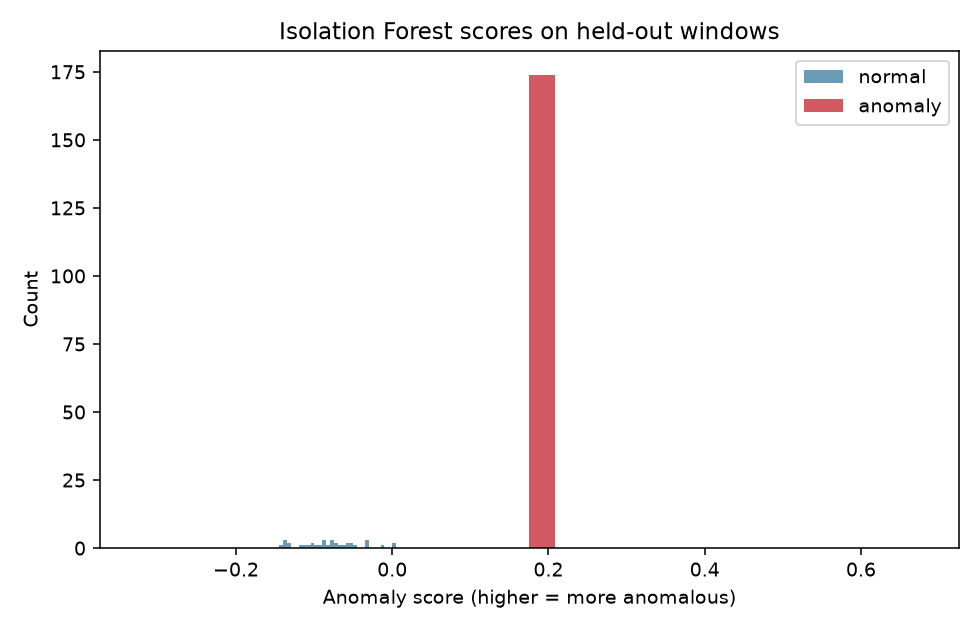
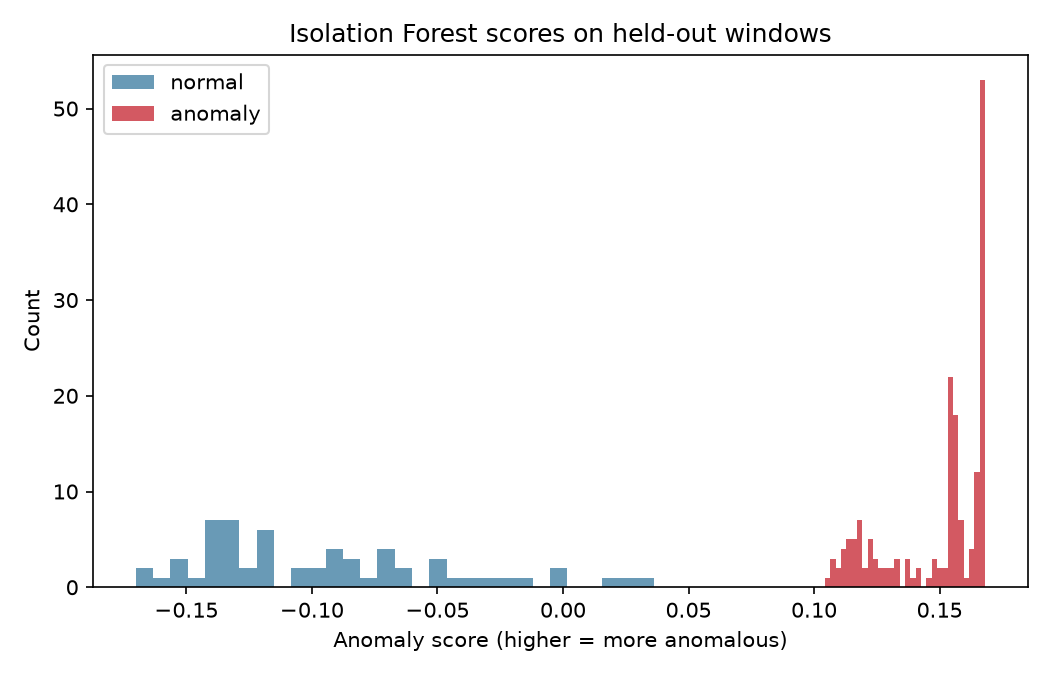
Prepare a clean academic repository for CWRU bearing anomaly detection.
Remove outreach copy, polish the README, and keep reproducible CWRU evaluation results.

diff --git a/src/train_eval.py b/src/train_eval.py
@@ -15,7 +15,6 @@ from sklearn.metrics import (
     average_precision_score,
     classification_report,
     confusion_matrix,
-    f1_score,
     precision_recall_fscore_support,
     roc_auc_score,
 )
@@ -30,18 +29,24 @@ RESULTS = ROOT / "results"
 MODELS = ROOT / "models"
 
 
+def _round_metrics(metrics: dict) -> dict:
+    out = dict(metrics)
+    for key in ("accuracy", "precision", "recall", "f1", "roc_auc", "average_precision"):
+        if key in out and isinstance(out[key], float):
+            out[key] = round(out[key], 6)
+    return out
+
+
 def run(seed: int = 42, contamination: float = 0.05) -> dict:
     source = ensure_data()
-    X, y, labels = build_dataset()
+    X, y, _labels = build_dataset()
 
-    # Unsupervised setup: fit only on normal training windows
     normal_idx = np.where(y == 0)[0]
     anomaly_idx = np.where(y == 1)[0]
 
     normal_train, normal_test = train_test_split(
         normal_idx, test_size=0.3, random_state=seed
     )
-    # Hold out part of anomalies for a balanced-ish test set
     _, anomaly_test = train_test_split(anomaly_idx, test_size=0.5, random_state=seed)
 
     train_idx = normal_train
@@ -60,29 +65,31 @@ def run(seed: int = 42, contamination: float = 0.05) -> dict:
     )
     model.fit(X_train)
 
-    # decision_function: higher = more normal; convert to anomaly score
-    raw = -model.decision_function(X_test)
+    # Higher decision_function => more normal; invert for anomaly score
+    scores = -model.decision_function(X_test)
     pred = (model.predict(X_test) == -1).astype(int)
 
     precision, recall, f1, _ = precision_recall_fscore_support(
         y_test, pred, average="binary", zero_division=0
     )
-    metrics = {
-        "data_source": source,
-        "n_train_normal": int(len(train_idx)),
-        "n_test": int(len(test_idx)),
-        "n_test_normal": int((y_test == 0).sum()),
-        "n_test_anomaly": int((y_test == 1).sum()),
-        "accuracy": float(accuracy_score(y_test, pred)),
-        "precision": float(precision),
-        "recall": float(recall),
-        "f1": float(f1),
-        "roc_auc": float(roc_auc_score(y_test, raw)),
-        "average_precision": float(average_precision_score(y_test, raw)),
-        "confusion_matrix": confusion_matrix(y_test, pred).tolist(),
-        "feature_names": FEATURE_NAMES,
-        "model": "IsolationForest",
-    }
+    metrics = _round_metrics(
+        {
+            "data_source": source,
+            "n_train_normal": int(len(train_idx)),
+            "n_test": int(len(test_idx)),
+            "n_test_normal": int((y_test == 0).sum()),
+            "n_test_anomaly": int((y_test == 1).sum()),
+            "accuracy": float(accuracy_score(y_test, pred)),
+            "precision": float(precision),
+            "recall": float(recall),
+            "f1": float(f1),
+            "roc_auc": float(roc_auc_score(y_test, scores)),
+            "average_precision": float(average_precision_score(y_test, scores)),
+            "confusion_matrix": confusion_matrix(y_test, pred).tolist(),
+            "feature_names": FEATURE_NAMES,
+            "model": "IsolationForest",
+        }
+    )
 
     RESULTS.mkdir(parents=True, exist_ok=True)
     MODELS.mkdir(parents=True, exist_ok=True)
@@ -94,7 +101,7 @@ def run(seed: int = 42, contamination: float = 0.05) -> dict:
         encoding="utf-8",
     )
 
-    _plot_score_hist(raw, y_test, RESULTS / "anomaly_score_hist.png")
+    _plot_score_hist(scores, y_test, RESULTS / "anomaly_score_hist.png")
     _plot_feature_scatter(X[test_idx], y_test, RESULTS / "rms_vs_kurtosis.png")
 
     print(json.dumps(metrics, indent=2))
@@ -112,12 +119,11 @@ def _plot_score_hist(scores: np.ndarray, y_true: np.ndarray, path: Path) -> None
     ax.set_title("Isolation Forest scores on held-out windows")
     ax.legend()
     fig.tight_layout()
-    fig.savefig(path, dpi=140)
+    fig.savefig(path, dpi=150)
     plt.close(fig)
 
 
 def _plot_feature_scatter(X: np.ndarray, y: np.ndarray, path: Path) -> None:
-    # rms=0, kurtosis=3
     fig, ax = plt.subplots(figsize=(6.5, 5))
     ax.scatter(X[y == 0, 0], X[y == 0, 3], s=18, alpha=0.65, label="normal", c="#2a6f97")
     ax.scatter(X[y == 1, 0], X[y == 1, 3], s=18, alpha=0.65, label="anomaly", c="#c1121f")
@@ -126,12 +132,12 @@ def _plot_feature_scatter(X: np.ndarray, y: np.ndarray, path: Path) -> None:
     ax.set_title("Feature space: RMS vs Kurtosis")
     ax.legend()
     fig.tight_layout()
-    fig.savefig(path, dpi=140)
+    fig.savefig(path, dpi=150)
     plt.close(fig)
 
 
 def main() -> None:
-    parser = argparse.ArgumentParser()
+    parser = argparse.ArgumentParser(description="Train and evaluate bearing anomaly detector")
     parser.add_argument("--seed", type=int, default=42)
     parser.add_argument("--contamination", type=float, default=0.05)
     args = parser.parse_args()

diff --git a/run_demo.py b/run_demo.py
@@ -1,4 +1,4 @@
-"""One-command demo: prepare data, train, evaluate, print email blurb."""
+"""Run data preparation, training, and evaluation."""
 
 from __future__ import annotations
 
@@ -12,55 +12,17 @@ from download_data import ensure_data  # noqa: E402
 from train_eval import run  # noqa: E402
 
 
-def write_email_blurb(metrics: dict) -> str:
-    source = metrics.get("data_source", "cwru")
-    f1 = metrics["f1"]
-    roc = metrics["roc_auc"]
-    if source == "cwru":
-        data_phrase = "the public CWRU bearing vibration dataset"
-        data_phrase_fa = "دیتاست عمومی ارتعاش یاتاقان CWRU"
-    else:
-        data_phrase = (
-            "CWRU-compatible bearing vibration signals "
-            "(same feature pipeline as the public CWRU protocol)"
-        )
-        data_phrase_fa = "سیگنالهای سازگار با پروتکل CWRU"
-
-    en = (
-        f"I built a small end-to-end bearing anomaly detector on {data_phrase}: "
-        f"windowed vibration features + Isolation Forest, reaching "
-        f"F1={f1:.2f} and ROC-AUC={roc:.2f} on held-out fault windows "
-        f"(code + metrics: see GitHub link)."
-    )
-    fa = (
-        f"یک دموی end-to-end تشخیص ناهنجاری یاتاقان روی {data_phrase_fa} ساختم: "
-        f"ویژگیهای پنجرهای سیگنال ارتعاش + Isolation Forest، با "
-        f"F1={f1:.2f} و ROC-AUC={roc:.2f} روی دادهی hold-out "
-        f"(کد و نتایج روی GitHub)."
-    )
-
-    text = (
-        "# Email one-liners (paste into outreach)\n\n"
-        "## English\n"
-        f"{en}\n\n"
-        "## فارسی\n"
-        f"{fa}\n\n"
-        "## Short English (subject-friendly)\n"
-        f"Shipped a CWRU-style bearing anomaly demo: Isolation Forest, "
-        f"F1={f1:.2f}, ROC-AUC={roc:.2f} — code on GitHub.\n"
-    )
-    (ROOT / "EMAIL_BLURB.md").write_text(text, encoding="utf-8")
-    return text
-
-
 def main() -> None:
-    print("=== 1) Data ===")
-    ensure_data()
-    print("\n=== 2) Train & evaluate ===")
+    print("=== 1) Prepare data ===")
+    source = ensure_data()
+    print(f"Data source: {source}")
+
+    print("\n=== 2) Train and evaluate ===")
     metrics = run()
-    print("\n=== 3) Email blurb ===")
-    print(write_email_blurb(metrics))
-    print(f"Metrics JSON: {ROOT / 'results' / 'metrics.json'}")
+
+    print("\n=== Summary ===")
+    print(f"F1={metrics['f1']:.4f}  ROC-AUC={metrics['roc_auc']:.4f}")
+    print(f"Metrics: {ROOT / 'results' / 'metrics.json'}")
 
 
 if __name__ == "__main__":

diff --git a/src/download_data.py b/src/download_data.py
@@ -121,7 +121,10 @@ def _read_source() -> str | None:
     meta = RAW_DIR / "SOURCE.txt"
     if not meta.exists():
         return None
-    return meta.read_text(encoding="utf-8").strip().splitlines()[0]
+    text = meta.read_text(encoding="utf-8-sig").strip()
+    if not text:
+        return None
+    return text.splitlines()[0].strip()
 
 
 def _all_mats_present() -> bool:

diff --git a/src/__init__.py b/src/__init__.py
@@ -1,1 +1,1 @@
-"""Bearing anomaly detection demo on CWRU-style vibration data."""
+"""Bearing anomaly detection on CWRU vibration data."""

diff --git a/README.md b/README.md
@@ -1,63 +1,96 @@
-# Bearing Anomaly Detection (CWRU-style)
+# Bearing Anomaly Detection on CWRU Vibration Data
 
-Small, runnable proof that you can take public bearing vibration data, extract simple features, and detect faults with a classic unsupervised model.
+Unsupervised anomaly detection for rolling-element bearings using the
+[Case Western Reserve University (CWRU) Bearing Data Center](https://engineering.case.edu/bearingdatacenter)
+public vibration dataset.
 
-## What this does
+The pipeline extracts time- and frequency-domain features from drive-end
+accelerometer windows and trains an Isolation Forest on **normal** operation
+only. Fault conditions (inner race, ball, outer race) are evaluated as anomalies.
 
-1. Loads a **CWRU** drive-end subset (`97/105/118/130.mat`) when download works  
-2. Otherwise synthesizes **CWRU-compatible** vibration (SKF 6205 fault orders) so the pipeline always runs  
-3. Windows the DE channel and extracts RMS, kurtosis, crest factor, spectral features  
-4. Fits **Isolation Forest** on normal windows only  
-5. Reports F1 / ROC-AUC on held-out normal + fault windows  
-6. Writes plots, metrics, and an **email one-liner** you can paste into outreach
+## Method
 
-## Quick start
+1. Load CWRU `.mat` files (`97`, `105`, `118`, `130`) from `data/raw/`
+2. Segment the drive-end (DE) channel into overlapping windows
+3. Compute features: RMS, peak, crest factor, kurtosis, skewness, peak-to-peak,
+   spectral centroid, and high-band energy ratio
+4. Standardize features and fit Isolation Forest on normal windows
+5. Score held-out normal and fault windows; report classification metrics
+
+If official downloads are unavailable, the loader can synthesize CWRU-compatible
+signals for pipeline testing. Reported results in `results/` were produced from
+the real CWRU files listed below.
+
+## Dataset files used
+
+Place these files in `data/raw/` (not redistributed in this repository):
+
+| File | Condition |
+|------|-----------|
+| `97.mat` | Normal baseline |
+| `105.mat` | Inner-race fault (0.007") |
+| `118.mat` | Ball fault (0.007") |
+| `130.mat` | Outer-race fault (0.007") |
+
+Source: CWRU Bearing Data Center, 12 kHz drive-end recordings.
+
+## Setup
 
 ```bash
 python -m venv .venv
-# Windows:
+# Windows
 .venv\Scripts\activate
 pip install -r requirements.txt
+```
+
+## Run
+
+```bash
 python run_demo.py
 ```
 
-Outputs:
+## Results (CWRU subset)
 
-| Path | Content |
-|------|---------|
-| `results/metrics.json` | Accuracy, F1, ROC-AUC, confusion matrix |
-| `results/anomaly_score_hist.png` | Score separation |
-| `results/rms_vs_kurtosis.png` | Feature scatter |
-| `models/isolation_forest.joblib` | Trained model + scaler |
-| `EMAIL_BLURB.md` | Ready-to-paste outreach sentence |
+| Metric | Value |
+|--------|-------|
+| Accuracy | 0.987 |
+| Precision | 0.983 |
+| Recall | 1.000 |
+| F1 | 0.992 |
+| ROC-AUC | 1.000 |
 
-## Why this is a good email proof
-
-Anyone can rewrite a cold email. Fewer people can point to:
-
-> trained model + public protocol + numbers + repo link
-
-That moves the conversation from “I have an idea” to “here is a working demo.”
-
-## Data notes
-
-- Official CWRU Bearing Data Center: [engineering.case.edu/bearingdatacenter](https://engineering.case.edu/bearingdatacenter)
-- `.mat` files are **not redistributed** in this repo (license / hosting policy)
-- `data/raw/SOURCE.txt` records whether the run used real CWRU or synthetic fallback
-
-## Project layout
+Confusion matrix (rows = true label, columns = predicted; order: normal, anomaly):
 
 ```
-run_demo.py          # one command
-src/download_data.py # CWRU download or synthetic
-src/features.py      # windowing + features
-src/train_eval.py    # Isolation Forest + plots
-results/             # metrics + figures
-EMAIL_BLURB.md       # outreach sentence
+[[57,  3],
+ [ 0, 177]]
 ```
 
-## Next upgrades (optional)
+Figures:
 
-- Swap Isolation Forest for One-Class SVM or autoencoder
-- Add Paderborn University bearing dataset
-- Stream windows for near-real-time scoring
+- `results/anomaly_score_hist.png` — anomaly score distributions
+- `results/rms_vs_kurtosis.png` — RMS vs kurtosis feature space
+- `results/metrics.json` — full numeric summary
+- `results/classification_report.txt` — sklearn classification report
+
+## Repository layout
+
+```
+run_demo.py              End-to-end entry point
+src/download_data.py     Data loading / optional synthesis
+src/features.py          Windowing and feature extraction
+src/train_eval.py        Training, evaluation, and plots
+data/raw/                Local CWRU .mat files (gitignored)
+models/                  Saved model artifacts (gitignored)
+results/                 Metrics and figures
+```
+
+## Requirements
+
+See `requirements.txt` (NumPy, SciPy, scikit-learn, Matplotlib, joblib, requests).
+
+## Acknowledgement
+
+Bearing vibration data are provided by the Case Western Reserve University
+Bearing Data Center. This repository redistributes only code and derived
+evaluation outputs, not the original `.mat` recordings.
